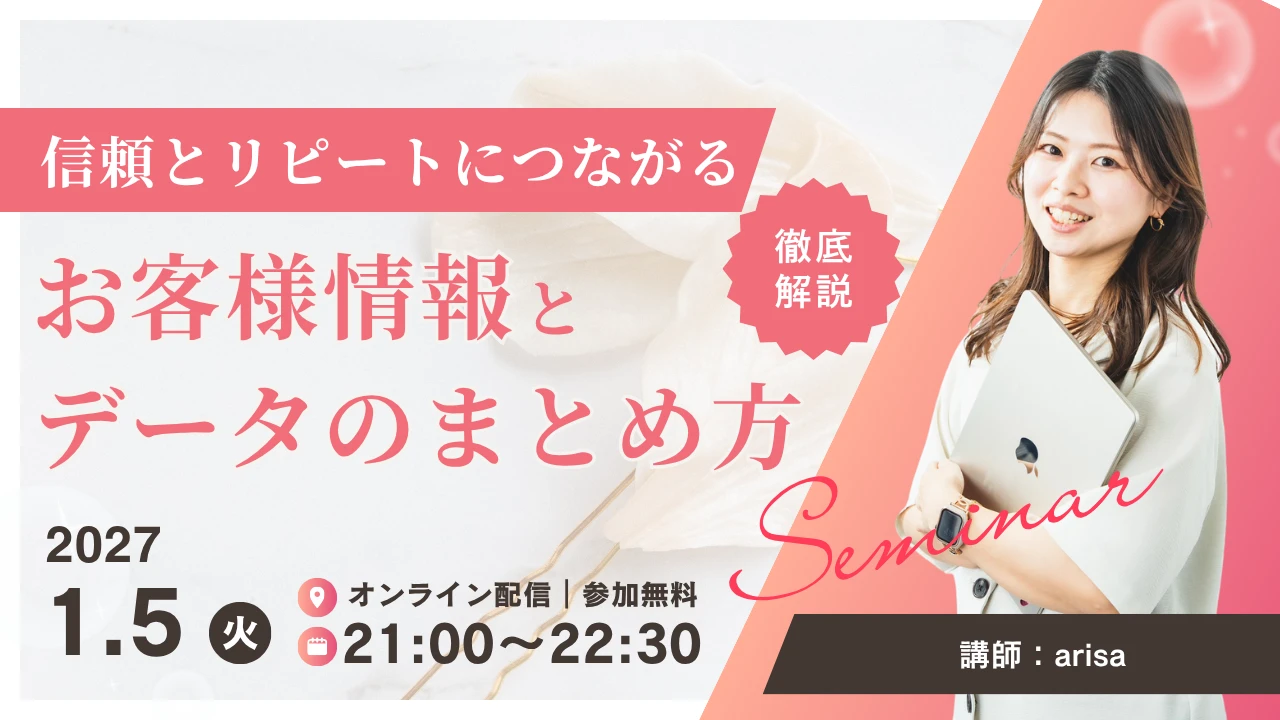
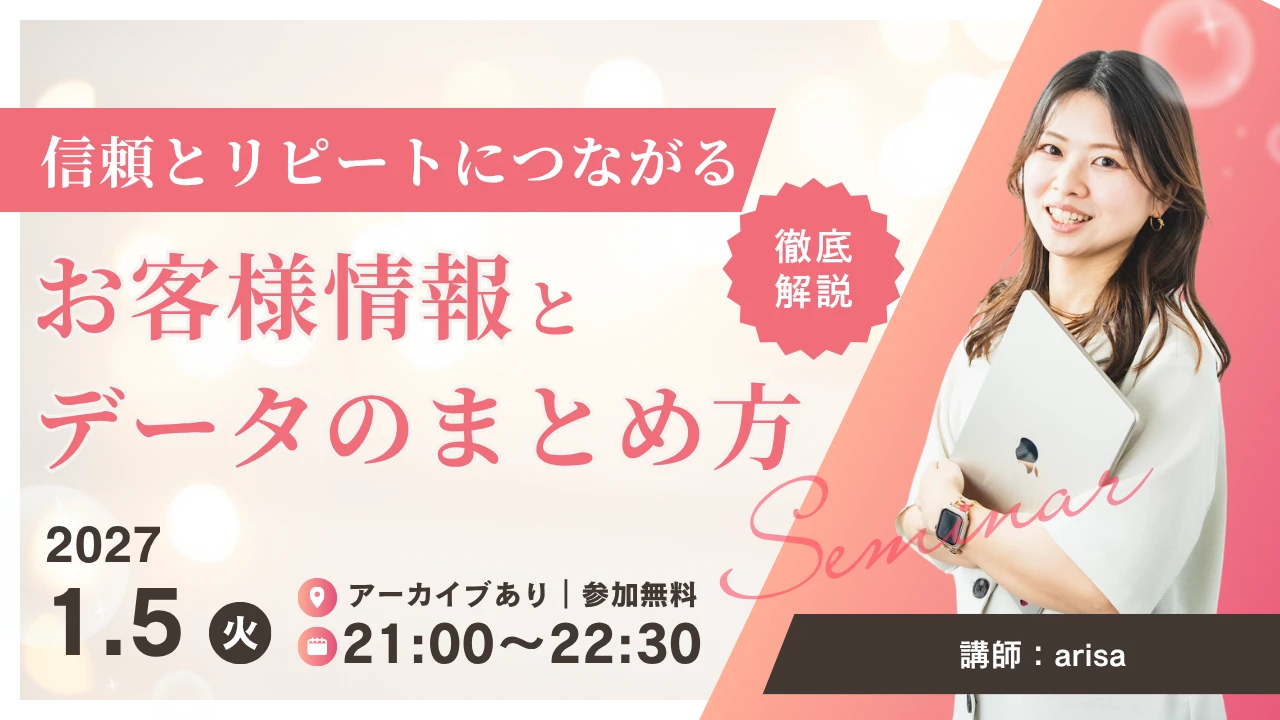
Add files via upload

diff --git a/index.html b/index.html
@@ -282,7 +282,7 @@
     <p class="lead-1day" id="lead-1day">1つでもチェックがついたあなたに</p>
     <div class="scroll-down" id="scroll-down" aria-hidden="true"><span>SCROLL</span><i></i></div>
     <div class="card info-card" id="next-self" style="--tab:var(--red)">
-      <img class="seminar-img" src="seminar_banner.webp" width="1280" height="720" alt="信頼とリピートにつながる お客様情報とデータのまとめ方　2027年1月5日（火）21:00〜22:30　オンライン配信・参加無料　講師：arisa">
+      <img class="seminar-img" src="seminar_banner.webp?v=2" width="1280" height="720" alt="信頼とリピートにつながる お客様情報とデータのまとめ方　2027年1月5日（火）21:00〜22:30　アーカイブあり・参加無料　講師：arisa">
       <a class="btn btn-red" id="openchat" target="_blank" rel="noopener" hidden>オープンチャットに参加する</a>
       <div class="notice-line" id="notice-line">
         <span aria-hidden="true">📩</span> 講座の案内を12月中旬にお届け！
